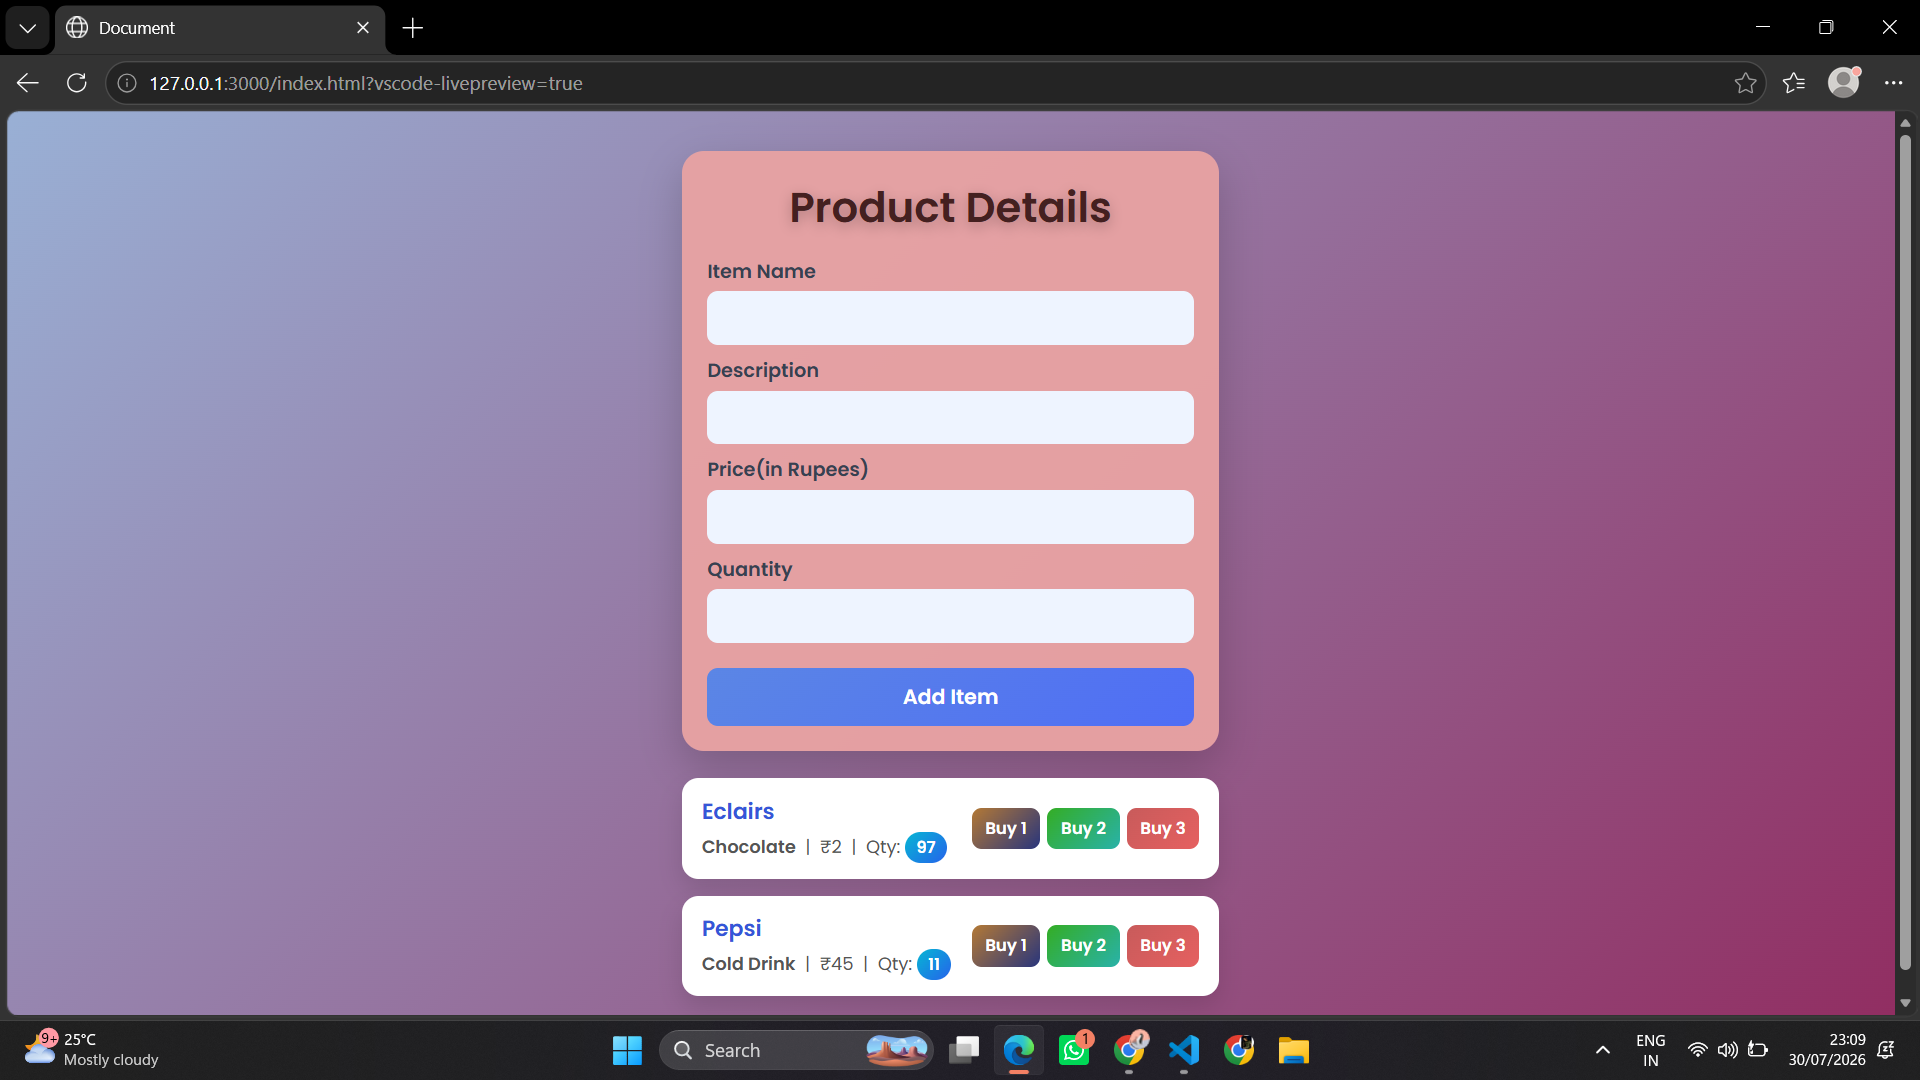
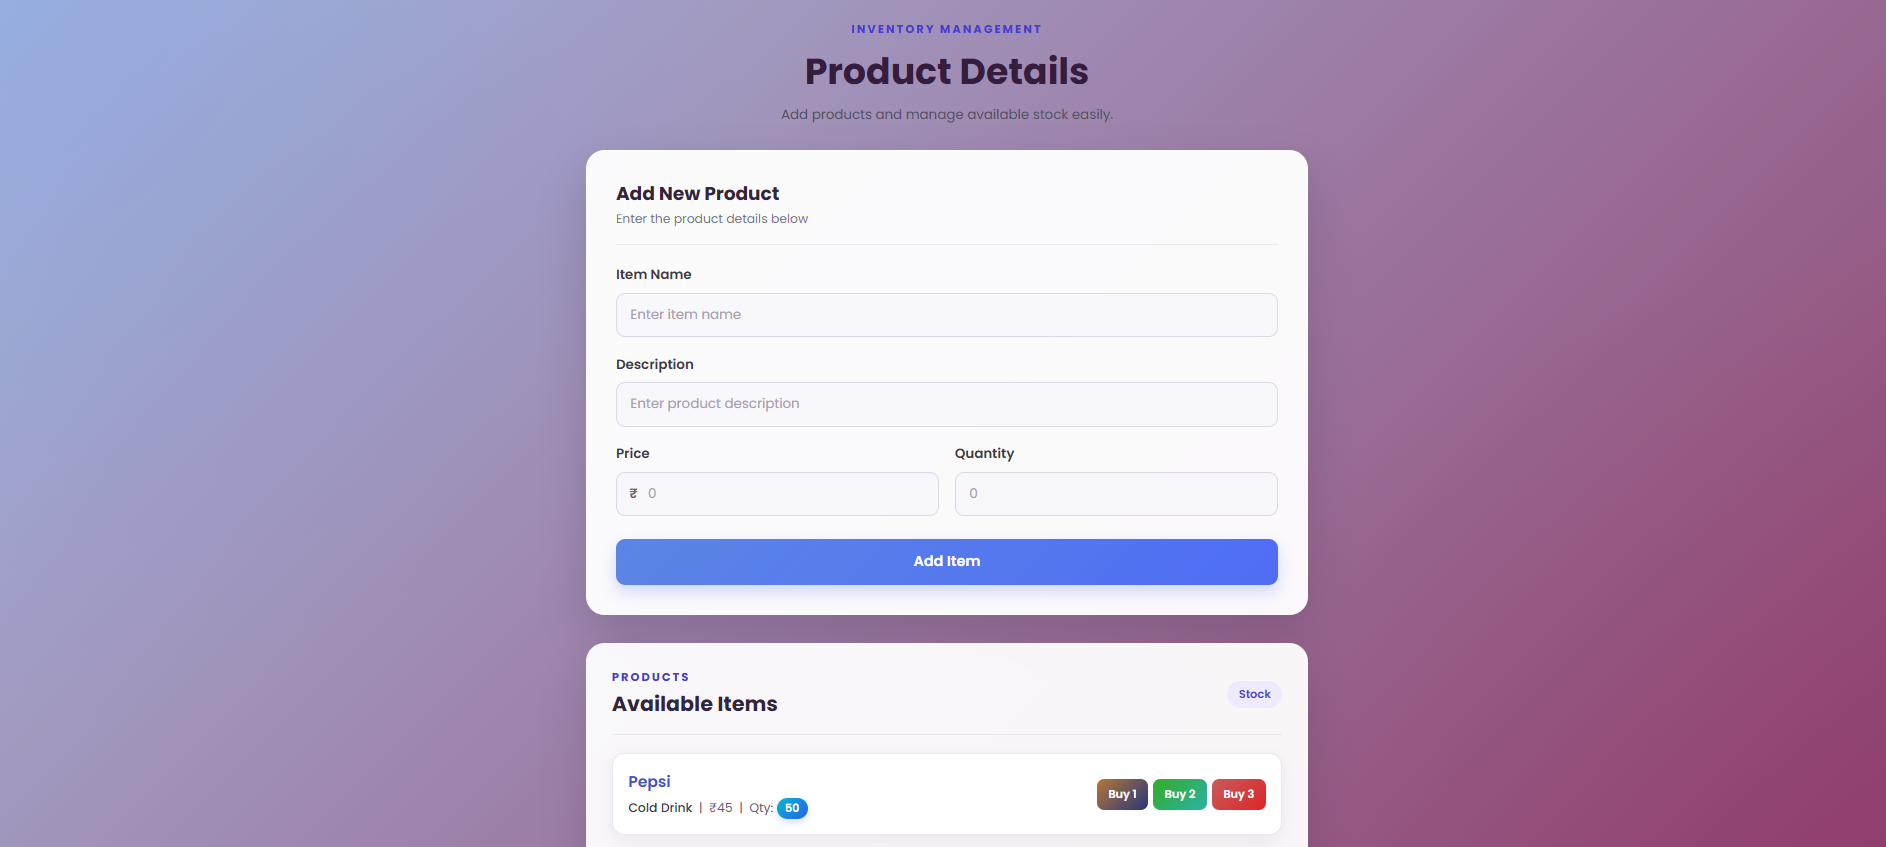
Updated readme file

diff --git a/README.md b/README.md
@@ -1,1 +1,390 @@
-g
+# 🛒 Inventory Management App
+
+A simple full-stack Inventory Management web application built using HTML, CSS, JavaScript, Axios, Node.js, Express.js, Sequelize, and MySQL.
+
+The application allows users to add products, view available products, and update their stock quantity using Buy buttons.
+
+Product data is stored permanently in a MySQL database through a Node.js and Express.js backend.
+
+---
+
+## 🚀 Features
+
+- Add new products
+- Display all products from the database
+- Persistent product data using MySQL
+- Buy 1, Buy 2, and Buy 3 functionality
+- Update product quantity
+- Prevent buying when sufficient quantity is not available
+- Uses Axios for API requests
+- REST API using Node.js and Express.js
+- Database management using Sequelize ORM
+- Responsive and modern UI
+- Gradient-based styling with hover effects
+
+---
+
+## 🛠 Technologies Used
+
+### Frontend
+
+- HTML5
+- CSS3
+- JavaScript
+- Axios
+
+### Backend
+
+- Node.js
+- Express.js
+- Sequelize
+- MySQL
+- CORS
+
+---
+
+## 📸 Preview
+
+![Inventory Management App Preview](Images/preview.png)
+
+
+---
+
+## 📁 Project Structure
+
+Inventory-Management
+│
+├── frontend
+│   ├── index.html
+│   ├── style.css
+│   └── index.js
+│
+└── backend
+    ├── app.js
+    │
+    ├── controllers
+    │   └── itemController.js
+    │
+    ├── models
+    │   └── items.js
+    │
+    ├── routes
+    │   └── itemRoutes.js
+    │
+    └── utils
+        └── db-connection.js
+
+---
+
+## ⚙ How It Works
+
+### Add Product
+
+The user enters:
+
+- Item Name
+- Description
+- Price
+- Quantity
+
+After clicking Add Item, the frontend sends the product details to the backend using Axios.
+
+The backend stores the product in the MySQL database using Sequelize.
+
+---
+
+### Display Products
+
+When the page loads, the frontend sends a GET request to the backend.
+
+The backend fetches all products from the MySQL database and sends them back to the frontend.
+
+The products are then displayed on the screen.
+
+Since the products are stored in MySQL, they remain available even after refreshing the page.
+
+---
+
+### Buy Buttons
+
+Each product has three buttons:
+
+- Buy 1
+- Buy 2
+- Buy 3
+
+When a button is clicked:
+
+1. The application checks whether enough quantity is available.
+2. The required quantity is deducted.
+3. The new quantity is sent to the backend.
+4. The backend updates the MySQL database.
+5. The updated quantity is displayed on the screen without refreshing the page.
+
+For example:
+
+Available Quantity: 10
+
+Buy 2
+
+New Quantity: 8
+
+If the available quantity is less than the requested amount, the application displays:
+
+"Not enough quantity available. Contact the shopkeeper!"
+
+---
+
+## 🌐 API Endpoints
+
+| Method | Endpoint | Purpose |
+|--------|----------|---------|
+| POST | /item/add-item | Add a new product |
+| GET | /item/get-items | Get all products |
+| PUT | /item/update-quantity/:id | Update product quantity |
+
+---
+
+## 🗄 Database
+
+The application uses MySQL for storing product information.
+
+Create the database using:
+
+CREATE DATABASE product_app;
+
+The Items table is created automatically by Sequelize when the backend starts.
+
+### Product Fields
+
+| Field | Type | Description |
+|-------|------|-------------|
+| id | INTEGER | Primary key |
+| itemName | STRING | Product name |
+| description | STRING | Product description |
+| price | INTEGER | Product price |
+| quantity | INTEGER | Available stock |
+
+---
+
+# ▶ Run Locally
+
+## 1. Clone the Repository
+
+git clone https://github.com/your-username/Inventory-Management.git
+
+---
+
+## 2. Navigate to the Project
+
+cd Inventory-Management
+
+---
+
+## 3. Create MySQL Database
+
+Open MySQL and run:
+
+CREATE DATABASE product_app;
+
+---
+
+## 4. Setup Backend
+
+Navigate to the backend folder:
+
+cd backend
+
+Initialize Node.js:
+
+npm init -y
+
+Install the required packages:
+
+npm install express sequelize mysql2 cors
+
+---
+
+## 5. Configure MySQL Connection
+
+Open:
+
+backend/utils/db-connection.js
+
+Update your MySQL password:
+
+const sequelize = new Sequelize(
+    'product_app',
+    'root',
+    'YOUR_PASSWORD',
+    {
+        host: 'localhost',
+        dialect: 'mysql'
+    }
+);
+
+Replace YOUR_PASSWORD with your MySQL password.
+
+---
+
+## 6. Start the Backend
+
+Inside the backend folder, run:
+
+node app.js
+
+The server will run at:
+
+http://localhost:3000
+
+You should see messages similar to:
+
+Connection to the database has been created
+Database is synced
+Server running at http://localhost:3000
+
+---
+
+## 7. Open the Frontend
+
+Open:
+
+frontend/index.html
+
+in your browser.
+
+Make sure the backend server and MySQL are running while using the application.
+
+---
+
+# 🔄 Application Flow
+
+The application follows this flow:
+
+User
+  ↓
+Frontend
+  ↓
+Axios
+  ↓
+Express API
+  ↓
+Routes
+  ↓
+Controller
+  ↓
+Sequelize
+  ↓
+MySQL Database
+
+---
+
+## Adding a Product
+
+Add Item
+   ↓
+POST /item/add-item
+   ↓
+Express Route
+   ↓
+Item Controller
+   ↓
+Sequelize
+   ↓
+MySQL
+
+---
+
+## Getting Products
+
+Page Loads
+   ↓
+GET /item/get-items
+   ↓
+Express Route
+   ↓
+Item Controller
+   ↓
+Sequelize
+   ↓
+MySQL
+   ↓
+Products displayed on frontend
+
+---
+
+## Updating Quantity
+
+Buy 1 / Buy 2 / Buy 3
+   ↓
+PUT /item/update-quantity/:id
+   ↓
+Express Route
+   ↓
+Item Controller
+   ↓
+Sequelize
+   ↓
+MySQL
+   ↓
+Updated quantity displayed
+
+---
+
+# 📌 Important Notes
+
+- The application no longer uses CRUD CRUD.
+- No CRUD CRUD API key is required.
+- Product data is stored in MySQL.
+- The backend must be running for the frontend to communicate with the database.
+- Make sure MySQL is running before starting the backend.
+- Update the MySQL password in db-connection.js.
+- The frontend communicates with the backend using:
+
+http://localhost:3000
+
+- Axios is used for communication between the frontend and backend.
+- Sequelize is used to communicate with the MySQL database.
+- Sequelize automatically creates the Items table when the backend starts.
+
+---
+
+# 🎯 Future Improvements
+
+- Delete Product
+- Edit Product
+- Search Products
+- Product Categories
+- Sorting and Filtering
+- Low Stock Notifications
+- Better Stock Management
+- User Authentication
+- Product Images
+- Order Management
+- Sales Tracking
+- Dashboard with Inventory Statistics
+
+---
+
+# 📚 Learning Objectives
+
+This project helps demonstrate:
+
+- Creating a frontend using HTML, CSS, and JavaScript
+- Sending API requests using Axios
+- Creating a REST API using Express.js
+- Organizing backend code using Routes and Controllers
+- Connecting Node.js with MySQL
+- Using Sequelize ORM
+- Creating and querying database tables
+- Updating database records
+- Connecting frontend and backend
+- Managing inventory quantity through APIs
+
+---
+
+# 👨💻 Author
+
+Akshat Jain
+
+GitHub: https://github.com/AkshatJain16
